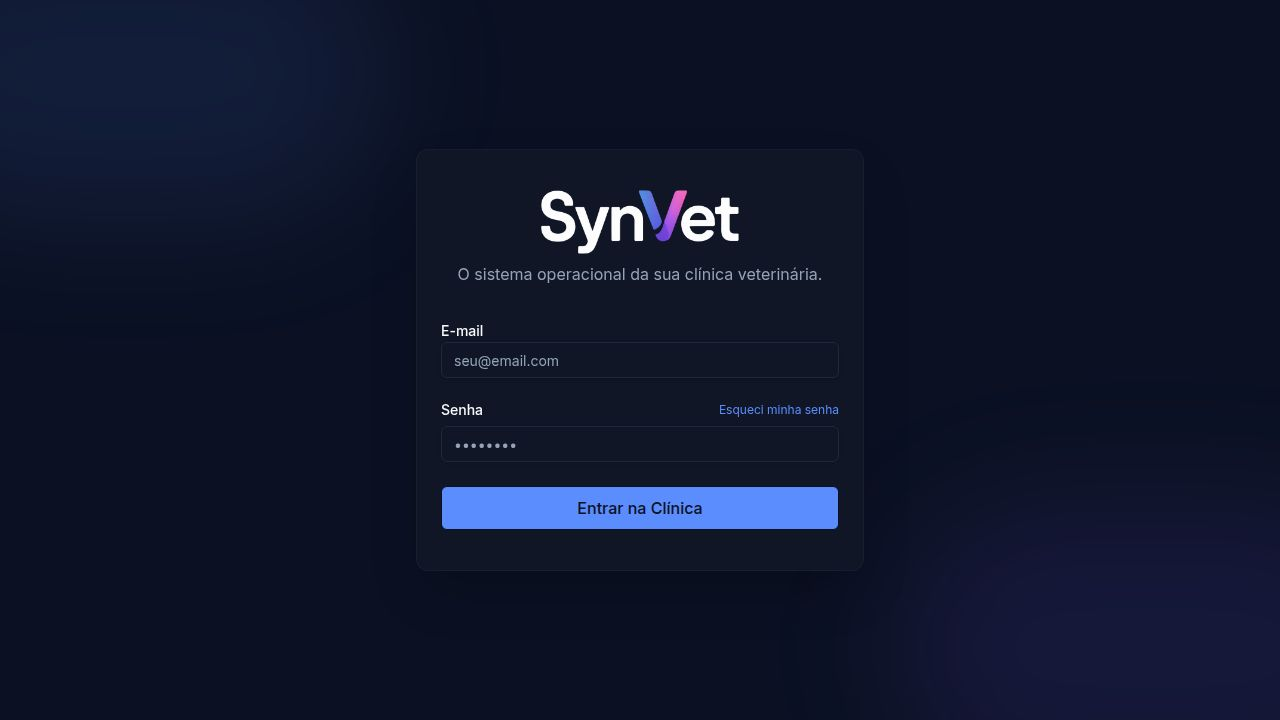
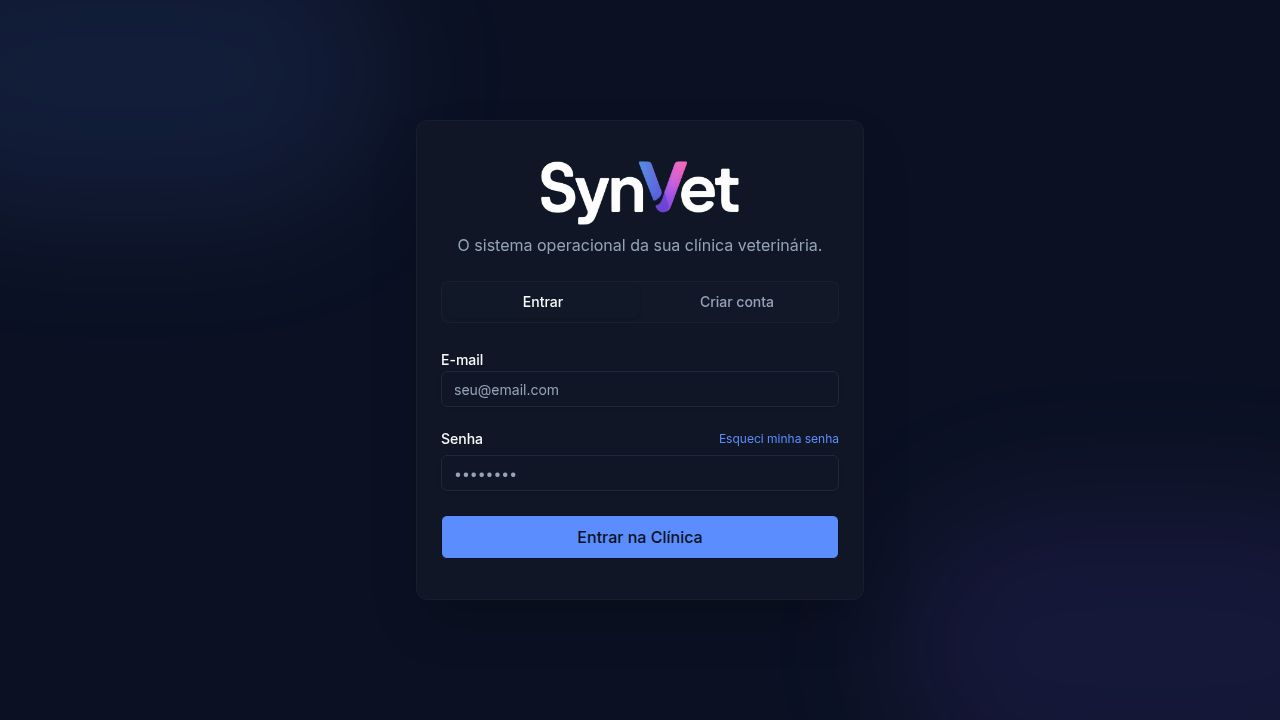
Improve PWA caching and auto-update functionality
Update service worker to version cache, prevent HTML caching when online, and implement automatic page reloads on new deployments.

Replit-Commit-Author: Agent
Replit-Commit-Session-Id: 4620feb6-69bb-4253-9b83-eb590eaaf3bd
Replit-Commit-Checkpoint-Type: full_checkpoint
Replit-Commit-Event-Id: c38ebe74-0ae3-487d-aa4a-e9c547fa9919
Replit-Commit-Screenshot-Url: https://storage.googleapis.com/screenshot-production-us-central1/09362e23-6b2d-4e1f-8f97-e6a4b1a2b3e8/4620feb6-69bb-4253-9b83-eb590eaaf3bd/mADX9z1
Replit-Helium-Checkpoint-Created: true

Changed region(s): [[0.3438, 0.4583, 0.6562, 0.7944], [0.3438, 0.2139, 0.6562, 0.4278], [0.5625, 0.55, 0.6562, 0.6417]]

diff --git a/replit.md b/replit.md
@@ -49,7 +49,7 @@ Plataforma multi-clínica para veterinários: pacientes, tutores, agenda de cons
 - **Modo demo automático (apenas dev)** — sem Supabase ou sem token, backend cria/usa clínica `demo` semeada. `NODE_ENV=production` bloqueia (`401`); reativar com `ALLOW_DEMO_AUTH=true`.
 - **Datas**: helper `lib/dates.ts` converte `Date` para `YYYY-MM-DD` em colunas Drizzle `date`.
 - **Tema fixo dark** (`<html class="dark">`) — paleta `#0B1020 / #111827 / #5B8CFF / #7A5CFF / #F8FAFC / #94A3B8` em `.dark` do `index.css`.
-- **PWA**: `public/sw.js` registrado pelo `main.tsx` em produção; shell mínimo, `/api` nunca cacheado.
+- **PWA + auto-update**: `public/sw.js` registrado pelo `main.tsx` em produção. Cache name é versionado em build (`synvet-shell-${BUILD_VERSION}`) — `vite.config.ts` injeta `Date.now()` via `swVersionPlugin` (substitui `__BUILD_VERSION__` no sw.js após o build). `/api` nunca cacheado. **Navegação é network-only quando online** (cache só serve como fallback offline) — evita HTML stale referenciando chunks antigos. **Auto-update**: novo SW chama `self.skipWaiting()` no install; `main.tsx` ouve `controllerchange` e dá `window.location.reload()` automático uma vez. Também checa updates a cada 60s (`reg.update()`). Listener global de `error` recupera de "Failed to fetch dynamically imported module" / "ChunkLoadError" forçando reload (com flag em `sessionStorage` pra evitar loop). Resultado: usuário não precisa mais limpar cache / hard refresh após deploy.
 - **Auditoria**: toda tabela de domínio tem `createdAt`, `updatedAt` (default `now()`) e `createdBy` (uuid → `users.id` ON DELETE SET NULL). Inserts setam `createdBy: user.id`; updates setam `updatedAt: new Date()`.
 - **RBAC**: enum `users.role` = `admin | vet | assistant`. Middleware `requireRole(...roles)` em `middlewares/auth.ts` (retorna 403). Frontend usa hook `usePermissions()` para gates de UI (`isAdmin`, `can.manageTeam`, etc.). Apenas `admin` altera cargos via `PATCH /clinic/team/:memberId`; admin não pode rebaixar a si mesmo.
 - **Timeline clínica**: `GET /pets/:petId/timeline` agrega consultations + exams + vaccines + medical_records, normaliza para `{type,id,date,title,description,severity,sourceUrl}` e ordena desc. Severidade: vacina vencida = `critical`, exame `pending` ou consulta `cancelled` = `warning`, demais = `info`.